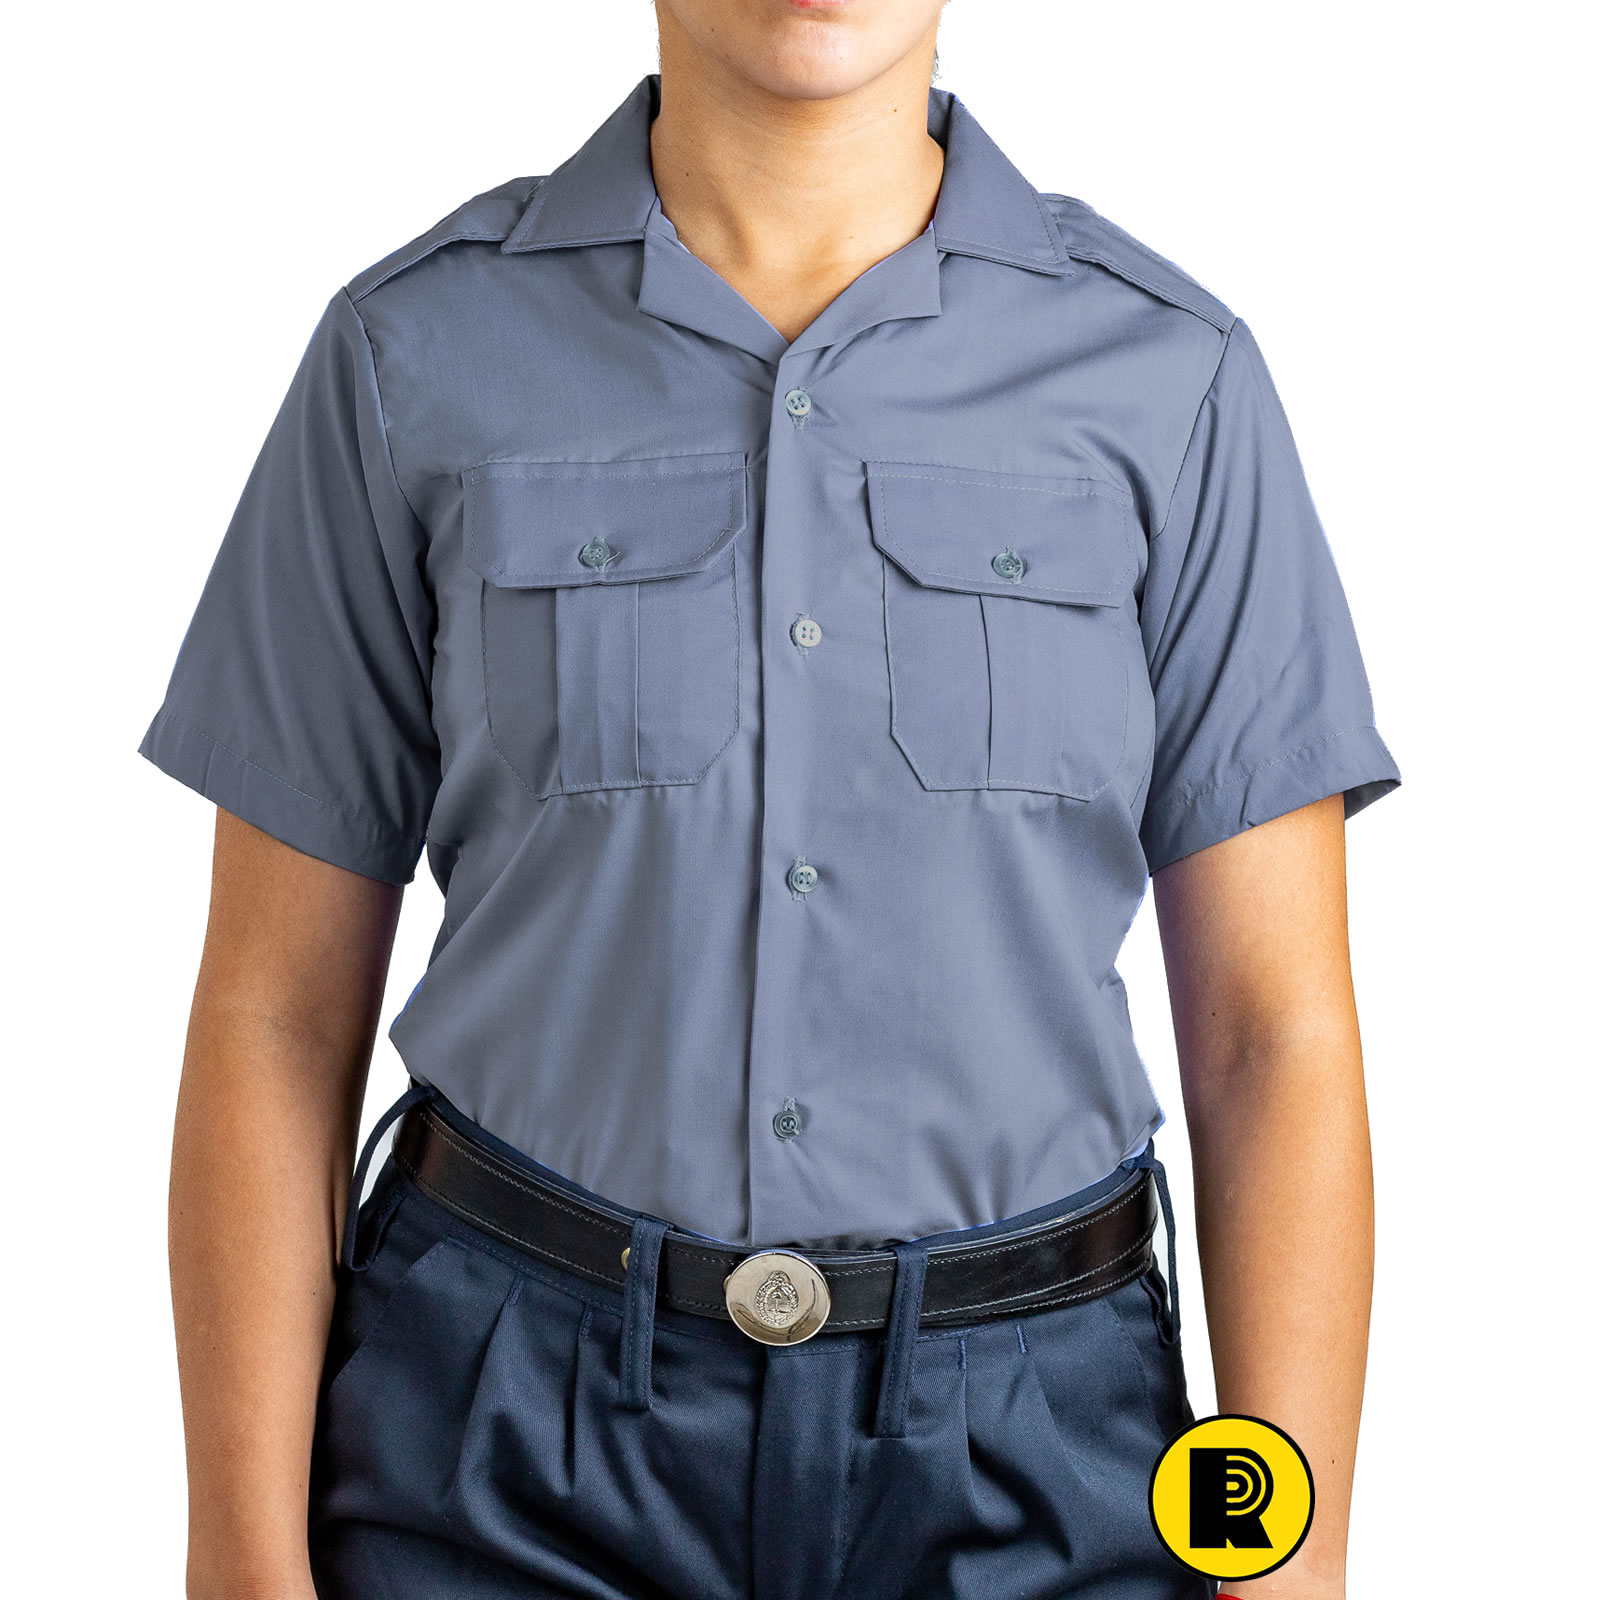
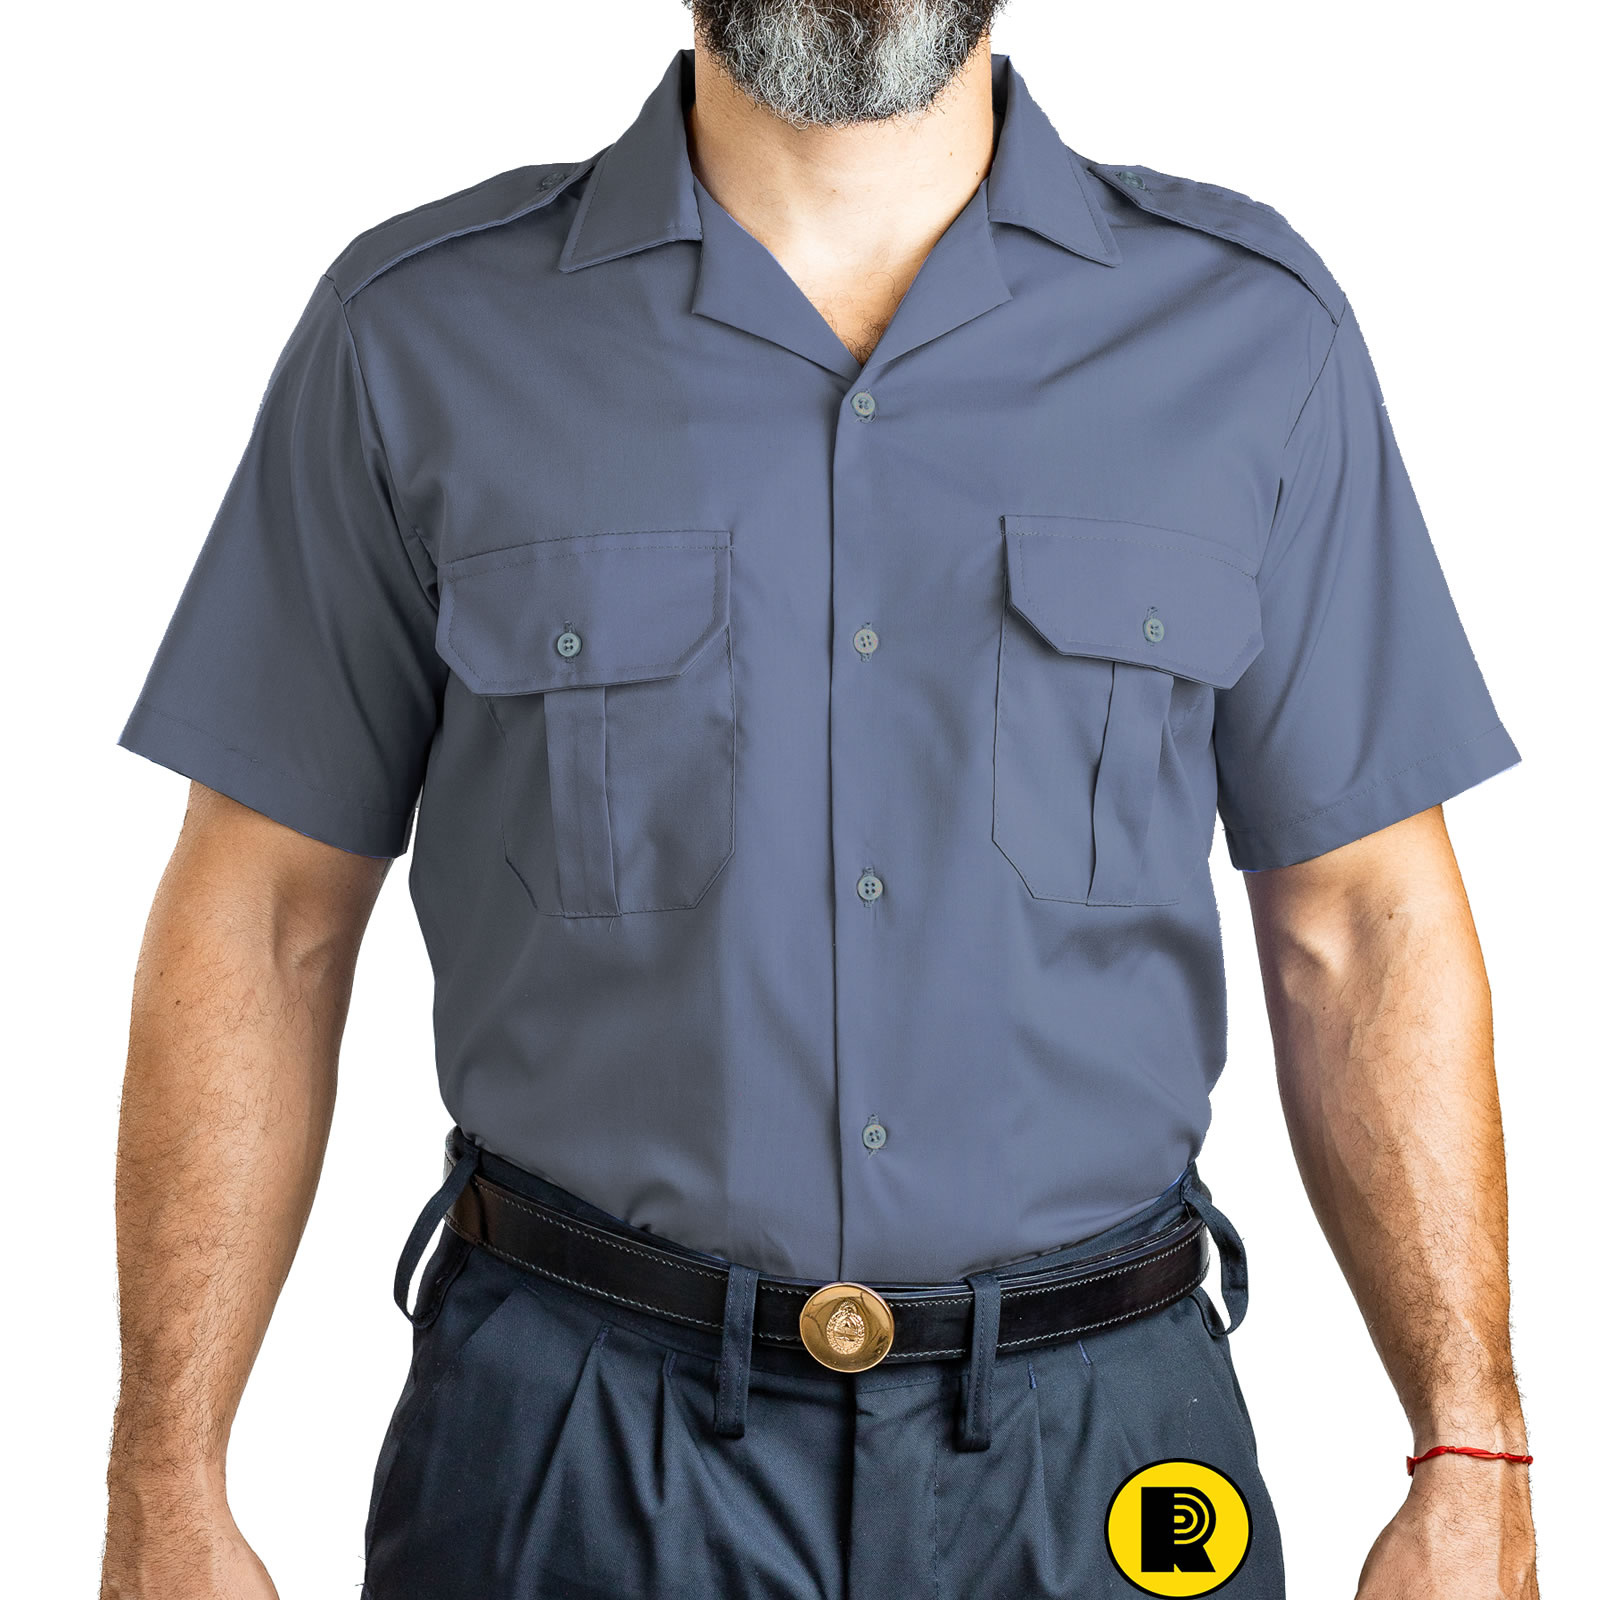
Más optimizaciones al functions.php
Más imágenes. Remeras, camisas mangas cortas con cuello solapa. Había que corregirlas, porque le faltaban.

diff --git a/wp-content/themes/understrap/functions.php b/wp-content/themes/understrap/functions.php
@@ -596,9 +596,26 @@ function remove_category_list_rel($output)
 add_filter('wp_list_categories','remove_category_list_rel');
 add_filter('the_category','remove_category_list_rel');
 
-// Deshabilitar Iconos Emoji
-remove_action('wp_head', 'print_emoji_detection_script', 7);
-remove_action('wp_print_styles', 'print_emoji_styles');
+// Removes some links from the header
+function remove_headlinks_and_emojis() {
+    remove_action( 'wp_head', 'wp_generator' );
+    remove_action( 'wp_head', 'rsd_link' );
+    remove_action( 'wp_head', 'wlwmanifest_link' );
+    remove_action( 'wp_head', 'start_post_rel_link' );
+    remove_action( 'wp_head', 'index_rel_link' );
+    remove_action( 'wp_head', 'wp_shortlink_wp_head' );
+    remove_action( 'wp_head', 'adjacent_posts_rel_link' );
+    remove_action( 'wp_head', 'adjacent_posts_rel_link_wp_head', 10, 0 );
+    remove_action( 'wp_head', 'parent_post_rel_link' );
+    remove_action( 'wp_head', 'feed_links', 2 );
+    remove_action( 'wp_head', 'feed_links_extra', 3 );
+    remove_action( 'wp_head', 'print_emoji_detection_script', 7 );
+    remove_action( 'wp_print_styles', 'print_emoji_styles' );
+    remove_filter( 'wp_mail', 'wp_staticize_emoji_for_email' );
+    remove_filter( 'the_content_feed', 'wp_staticize_emoji' );
+    remove_filter( 'comment_text_rss', 'wp_staticize_emoji' );
+}
+add_action( 'init', 'remove_headlinks_and_emojis' );
 
 // Removiendo el panel de bienvenida del wordpress
 remove_action('welcome_panel', 'wp_welcome_panel');
@@ -634,6 +651,27 @@ function auto_nofollow_callback( $matches )
     return $link;
 }
 add_filter('comment_text', 'auto_nofollow');
+
+// Habilitar svg en imagenes
+function add_file_types_to_uploads($file_types)
+{
+	$new_filetypes = array();
+	$new_filetypes['svg'] = 'image/svg+xml';
+	$file_types = array_merge($file_types, $new_filetypes );
+	return $file_types;
+}
+add_filter('upload_mimes', 'add_file_types_to_uploads');
+
+
+//REMOVE GUTENBERG BLOCK LIBRARY CSS FROM LOADING ON FRONTEND
+function remove_wp_block_library_css()
+{
+	wp_dequeue_style( 'wp-block-library' );
+	wp_dequeue_style( 'wp-block-library-theme' );
+	wp_dequeue_style( 'wc-block-style' ); // REMOVE WOOCOMMERCE BLOCK CSS
+	wp_dequeue_style( 'global-styles' ); // REMOVE THEME.JSON
+}
+add_action( 'wp_enqueue_scripts', 'remove_wp_block_library_css', 100 );
 
 //Función para Minificar el HTML
 class WP_HTML_Compression
@@ -758,5 +796,124 @@ function wp_html_compression_start()
 {
 	ob_start('wp_html_compression_finish');
 }
-// add_action('get_header', 'wp_html_compression_start');
+add_action('get_header', 'wp_html_compression_start');
+
+/**
+ * Minify HTML Output in WordPress
+ *
+ * @author: Pablo López Mestre - https://desarrollowp.com
+ */
+class HtmlCompression {
+    public function __construct() {
+        add_action( 'wp_loaded', self::html_compression_start() );
+    }
+
+    public static function html_compression_start() {
+        ob_start( array( __CLASS__, 'html_compression_finish' ) );
+    }
+
+    public static function html_compression_finish( $html ) {
+        $pattern = '/(?<js><script.*?<\/script\s*>)|(?<css><style.*?<\/style\s*>)|(?<html>(?:[^!\/\w.:-])?[^<]*)/ms';
+
+        preg_match_all( $pattern, $html, $matches, PREG_SET_ORDER );
+
+        // Variable reused for output
+        $output = '';
+
+        foreach ( $matches as $token ) {
+            if ( ! empty( $token['js'] ) ) {
+                $output .= self::minify_js( $token['js'] );
+            } elseif ( ! empty( $token['css'] ) ) {
+                $output .= self::minify_css( $token['css'] );
+            } else {
+                $output .= self::minify_html( $token['html'] );
+            }
+        }
+
+        return $output ?: $html;
+    }
+
+    /**
+     * Minify inline JS
+     *
+     * @param string $content All JS captured by regex.
+     *
+     * @return string
+     */
+    private static function minify_js( string $content = '' ): string {
+        $pattern = array(
+            '/(?<!ftp:|http:|https:|"|\')\s*\/\/[^\n\r]*/ms',
+            // Remove JavaScript Inline comments (Don't remove if it's a URL)
+            '/\/\*.*?\*\//ms',
+            // Remove JavaScript Block comments
+            '/[\n\r\t\v\e\f]/',
+            // Remove all new lines, carriage returns, tabs, vertical whitespaces, esc & form feeds characters
+            '/\s{2,}/s',
+            // Remove all spaces (when there are 2 or more)
+        );
+
+        $replacement = array(
+            '',
+            '',
+            '',
+            ' ',
+        );
+
+        return preg_replace( $pattern, $replacement, $content );
+    }
+
+    /**
+     * Minify inline CSS
+     *
+     * @param string $content All CSS captured by regex.
+     *
+     * @return string
+     */
+    private static function minify_css( string $content = '' ): string {
+        $pattern = array(
+            '/\/\*.*?\*\//ms',
+            // Remove CSS Block comments
+            '/[\n\r\t\v\e\f]/',
+            // Remove all new lines, carriage returns, tabs, vertical whitespaces, esc & form feeds characters
+            '/\s{2,}/s',
+            // Remove all spaces (when there are 2 or more)
+        );
+
+        $replacement = array(
+            '',
+            '',
+            '',
+        );
+
+        return preg_replace( $pattern, $replacement, $content );
+    }
+
+    /**
+     * Minify rest of HTML
+     *
+     * @param string $content All HTML captured by regex.
+     *
+     * @return string
+     */
+    private static function minify_html( string $content = '' ): string {
+        $pattern = array(
+            '/<!--\s.*?-->/',
+            // Remove all HTML comments
+            '/[\n\r\t\v\e\f]/',
+            // Remove all new lines, carriage returns, tabs, vertical whitespaces, esc & form feeds characters
+            '/\s{2,}/',
+            // Remove all spaces (when there are 2 or more)
+        );
+
+        $replacement = array(
+            '',
+            '',
+            ' ',
+        );
+
+        return preg_replace( $pattern, $replacement, $content );
+    }
+}
+//$minify_html = new HtmlCompression();
+
 ?>
